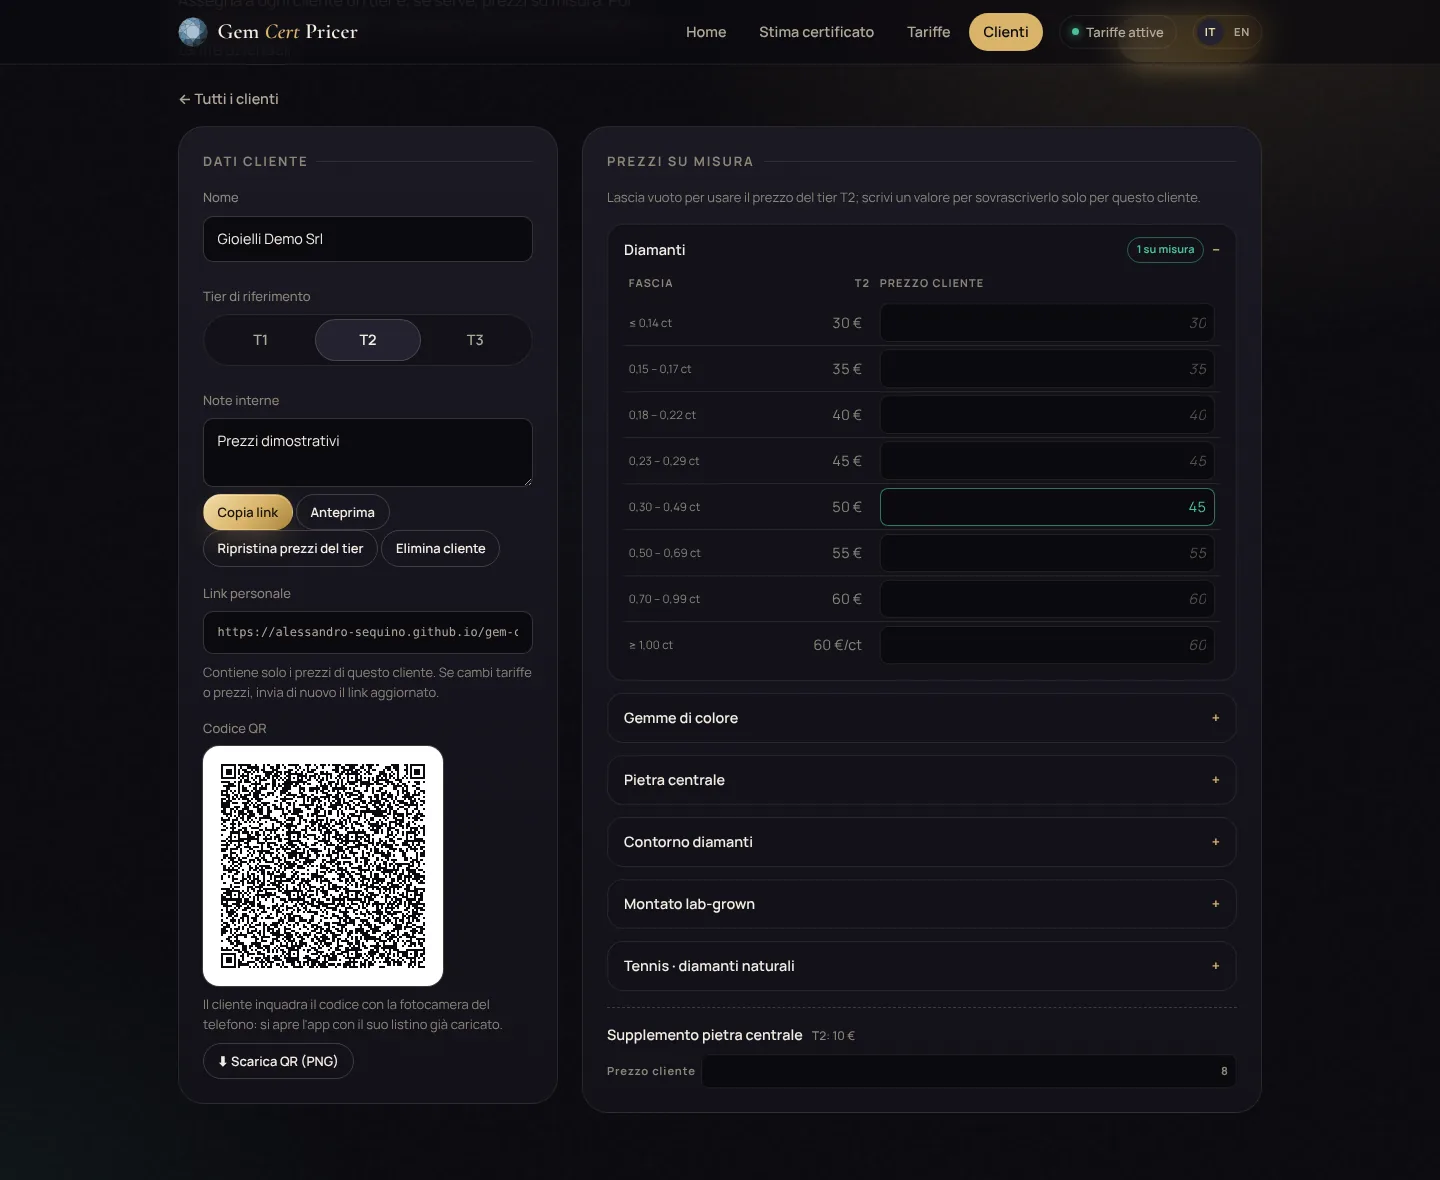
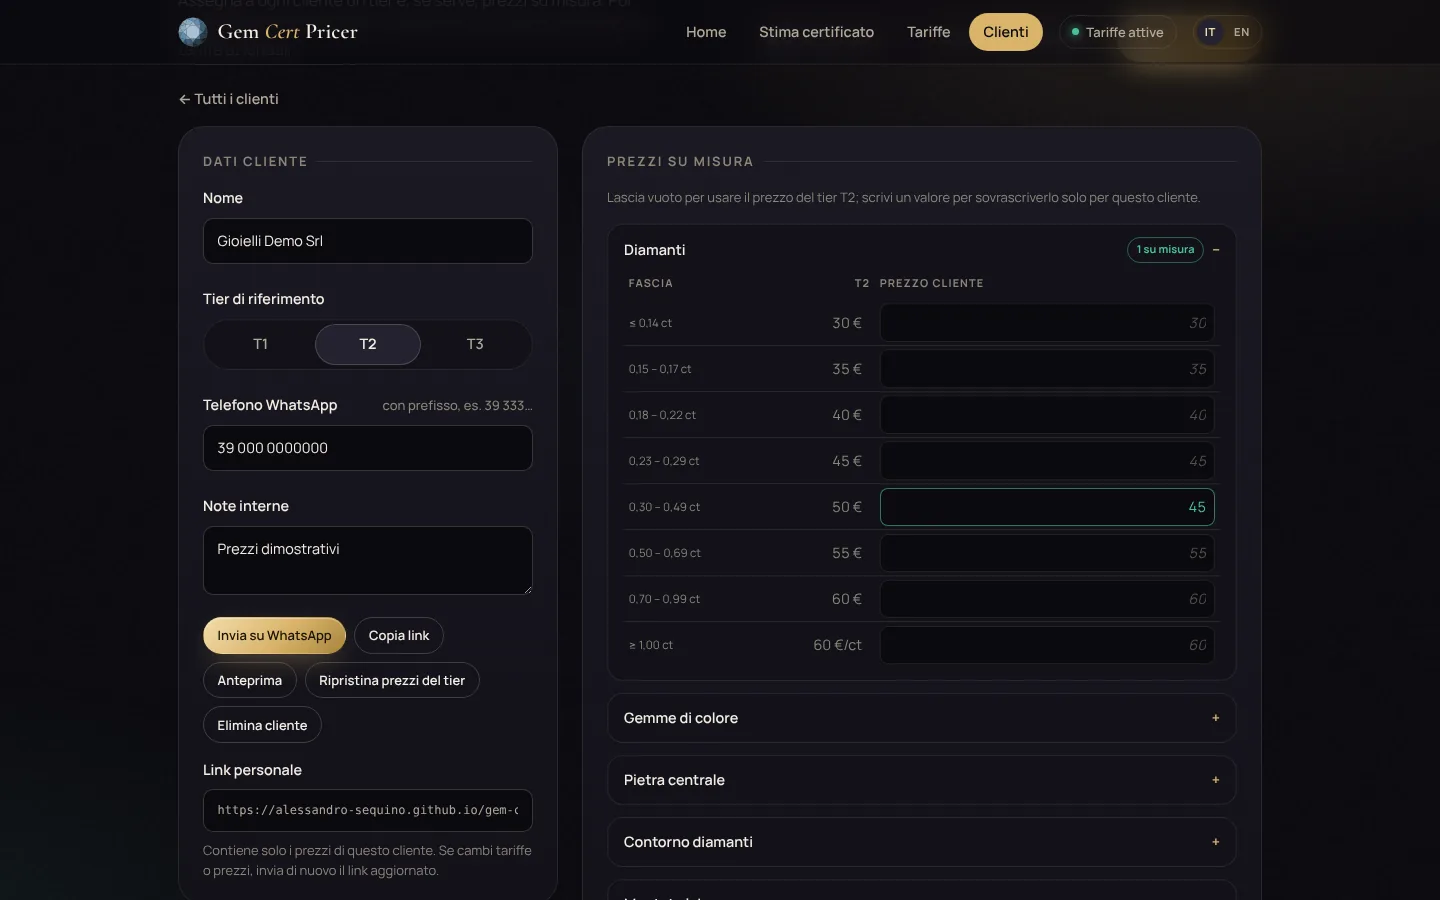
Toglie il QR personale del cliente; schermate README aggiornate
- Scheda cliente: rimosso il QR personale (superato dal QR del negozio e
  dall'invio del link su WhatsApp; evita di esporre per errore un QR con
  i prezzi di un cliente). Il link personale resta, compresso
- Resta un solo QR da esporre: quello del negozio
- README: testo aggiornato, nuove schermate di elenco clienti (pulsanti
  QR del negozio / Da richiesta WhatsApp) e scheda cliente (telefono,
  Invia su WhatsApp), con dati dimostrativi

Claude-Session: https://claude.ai/code/session_01NQTazgPaWasX3WVcqGh7Dg

diff --git a/index.html b/index.html
@@ -569,7 +569,6 @@ table.rt { width: 100%; border-collapse: collapse; font-size: var(--text-sm); }
 .qr-box { width: 100%; max-width: 280px; margin-top: var(--s2); padding: 10px; background: #fff; border-radius: var(--r-md); box-shadow: 0 0 0 1px var(--line-strong); }
 .qr-box svg { display: block; max-width: 100%; height: auto; margin: 0 auto; }
 .qr-box .hint { color: #555; margin: 0; }
-.qr-block .btn { margin-top: var(--s2); }
 .shop-panel { margin-bottom: var(--s4); }
 .shop-grid { display: grid; grid-template-columns: minmax(0, 1fr) 260px; gap: var(--s5); align-items: start; }
 .shop-grid .qr-box { justify-self: end; }
@@ -1251,9 +1250,7 @@ const I18N = {
     copy_link: 'Copia link',
     share: 'Condividi',
     qr_title: 'Codice QR',
-    qr_hint: 'Il cliente inquadra il codice con la fotocamera del telefono: si apre l\'app con il suo listino già caricato.',
     qr_download: '⬇ Scarica QR (PNG)',
-    qr_caption: 'Inquadra per aprire il tuo listino · Gem Cert Pricer',
     qr_too_long: 'Il link è troppo lungo per un codice QR: usa «Copia link».',
     preview: 'Anteprima',
     edit: 'Modifica',
@@ -1501,9 +1498,7 @@ const I18N = {
     copy_link: 'Copy link',
     share: 'Share',
     qr_title: 'QR code',
-    qr_hint: 'The client scans the code with their phone camera: the app opens with their price list already loaded.',
     qr_download: '⬇ Download QR (PNG)',
-    qr_caption: 'Scan to open your price list · Gem Cert Pricer',
     qr_too_long: 'The link is too long for a QR code: use “Copy link”.',
     preview: 'Preview',
     edit: 'Edit',
@@ -2397,7 +2392,6 @@ async function refreshClientLink(c) {
   if (out) out.value = url;
   const wa = $('#cl-wa');
   if (wa) { wa.href = waLink(c.phone, t('wa_link_msg', { name: c.name, url })); wa.removeAttribute('aria-disabled'); }
-  renderQr(url);
 }
 
 /* ─── Codice QR del link personale ─────────────────────────────────────── */
@@ -2419,8 +2413,6 @@ function qrPath(qr) {
   return d;
 }
 
-function renderQr(url) { renderQrInto($('#cl-qr'), url); }
-
 function renderQrInto(box, url) {
   if (!box) return;
   const qr = makeQr(url);
@@ -2433,11 +2425,6 @@ function renderQrInto(box, url) {
     <rect x="${-q}" y="${-q}" width="${n + 2 * q}" height="${n + 2 * q}" fill="#fff"/><path d="${qrPath(qr)}" fill="#0B0A0F"/></svg>`;
 }
 
-// PNG stampabile: QR con margine bianco e nome del cliente sotto
-async function downloadQr(c) {
-  const url = linkCache.get(c.id) || await clientLink(c);
-  downloadQrPng(url, c.name, t('qr_caption'), c.name);
-}
 
 // PNG stampabile: QR con margine bianco, titolo e didascalia sotto
 function downloadQrPng(url, title, caption, fileBase) {
@@ -2600,12 +2587,6 @@ function clientEditorHTML(c) {
         <label class="field-label" for="cl-link" style="margin-top:var(--s4)"><span>${t('client_link')}</span></label>
         <input class="text-in link-out" id="cl-link" readonly value="" placeholder="…">
         <p class="hint">${t('link_hint')}</p>
-        <div class="qr-block">
-          <div class="field-label" style="margin-top:var(--s4)"><span>${t('qr_title')}</span></div>
-          <div class="qr-box" id="cl-qr"></div>
-          <p class="hint">${t('qr_hint')}</p>
-          <button type="button" class="btn btn-sm" data-cact="qr">${t('qr_download')}</button>
-        </div>
       </div>
       <div class="panel">
         <div class="panel-title">${t('custom_prices')}</div>
@@ -2687,7 +2668,6 @@ function bindClients() {
     switch (btn.dataset.cact) {
       case 'link': copyClientLink(c); break;
       case 'share': navigator.share({ title: 'Gem Cert Pricer', text: c.name, url: linkCache.get(c.id) }).catch(() => {}); break;
-      case 'qr': downloadQr(c); break;
       case 'preview': previewClient(c); break;
       case 'clear-ov':
         if (!overrideCount(c) || confirm(t('confirm_clear_custom', { name: c.name }))) { c.overrides = {}; saveRates(); renderClients(c.id); }

diff --git a/README.md b/README.md
@@ -29,18 +29,16 @@ Funziona interamente nel browser: **nessun server, nessun account, nessun dato c
 | **Home** | Pagina iniziale con i tre percorsi di stima |
 | **Stima certificato** | Pietra sciolta · Montato (gemma di colore o lab-grown) · Tennis, con confronto T1/T2/T3 e fasce evidenziate |
 | **Tariffe** | Editor delle tabelle di prezzo, import/export `.gcp.json` |
-| **Clienti** | Database clienti: tier di riferimento, prezzi su misura, link personale e codice QR; QR del negozio e richieste via WhatsApp |
+| **Clienti** | Database clienti: tier di riferimento, prezzi su misura, link personale da inviare su WhatsApp; QR del negozio e richieste via WhatsApp |
 
 ### Versione aziendale e versione pubblica
 
 - **Aziendale** — chi importa il tariffario completo vede i tre tier, le tariffe e la pagina **Clienti**. A ogni cliente si assegna un tier e, se serve, un prezzo su misura per singola fascia (o per il supplemento della pietra centrale).
-- **Pubblica (cliente)** — dalla scheda di un cliente si copia il suo **link personale**. Chi lo apre vede solo i propri prezzi, in un'unica colonna: niente tier, niente tariffe aziendali, niente altri clienti. Il listino resta salvato sul suo dispositivo finché non riceve un link aggiornato.
-
-Lo stesso link è disponibile come **codice QR**, da mostrare a schermo o da stampare (pulsante *Scarica QR*, PNG con il nome del cliente): il cliente lo inquadra con la fotocamera e l'app si apre con il suo listino già caricato.
+- **Pubblica (cliente)** — dalla scheda di un cliente si invia su WhatsApp (o si copia) il suo **link personale**. Chi lo apre vede solo i propri prezzi, in un'unica colonna: niente tier, niente tariffe aziendali, niente altri clienti. Il listino resta salvato sul suo dispositivo finché non riceve un link aggiornato.
 
 ### QR del negozio: richiesta del listino via WhatsApp
 
-Un secondo QR, **uguale per tutti**, si espone in negozio (Clienti → *QR del negozio*, con nome del negozio e numero WhatsApp):
+Un unico QR, **uguale per tutti**, si espone in negozio (Clienti → *QR del negozio*, con nome del negozio e numero WhatsApp):
 
 ```
 1. Il cliente inquadra il QR esposto  →  pagina «Richiedi il tuo listino»
@@ -84,7 +82,7 @@ Il link contiene solo i prezzi effettivi di quel cliente, compressi, e li traspo
 <table>
   <tr>
     <td width="50%"><b>Database clienti</b> — tier di riferimento, prezzi su misura e link personale<br><br><img src="docs/screenshots/clienti.webp" alt="Elenco clienti"></td>
-    <td width="50%"><b>Scheda cliente</b> — prezzi su misura fascia per fascia, link personale e codice QR<br><br><img src="docs/screenshots/cliente.webp" alt="Scheda cliente con prezzi su misura"></td>
+    <td width="50%"><b>Scheda cliente</b> — prezzi su misura fascia per fascia, telefono e invio del link su WhatsApp<br><br><img src="docs/screenshots/cliente.webp" alt="Scheda cliente con prezzi su misura"></td>
   </tr>
   <tr>
     <td width="50%"><b>Vista del cliente</b> — aperta dal link personale: un solo prezzo, senza tier né tariffe<br><br><img src="docs/screenshots/pubblica.webp" alt="Versione pubblica vista dal cliente"></td>
